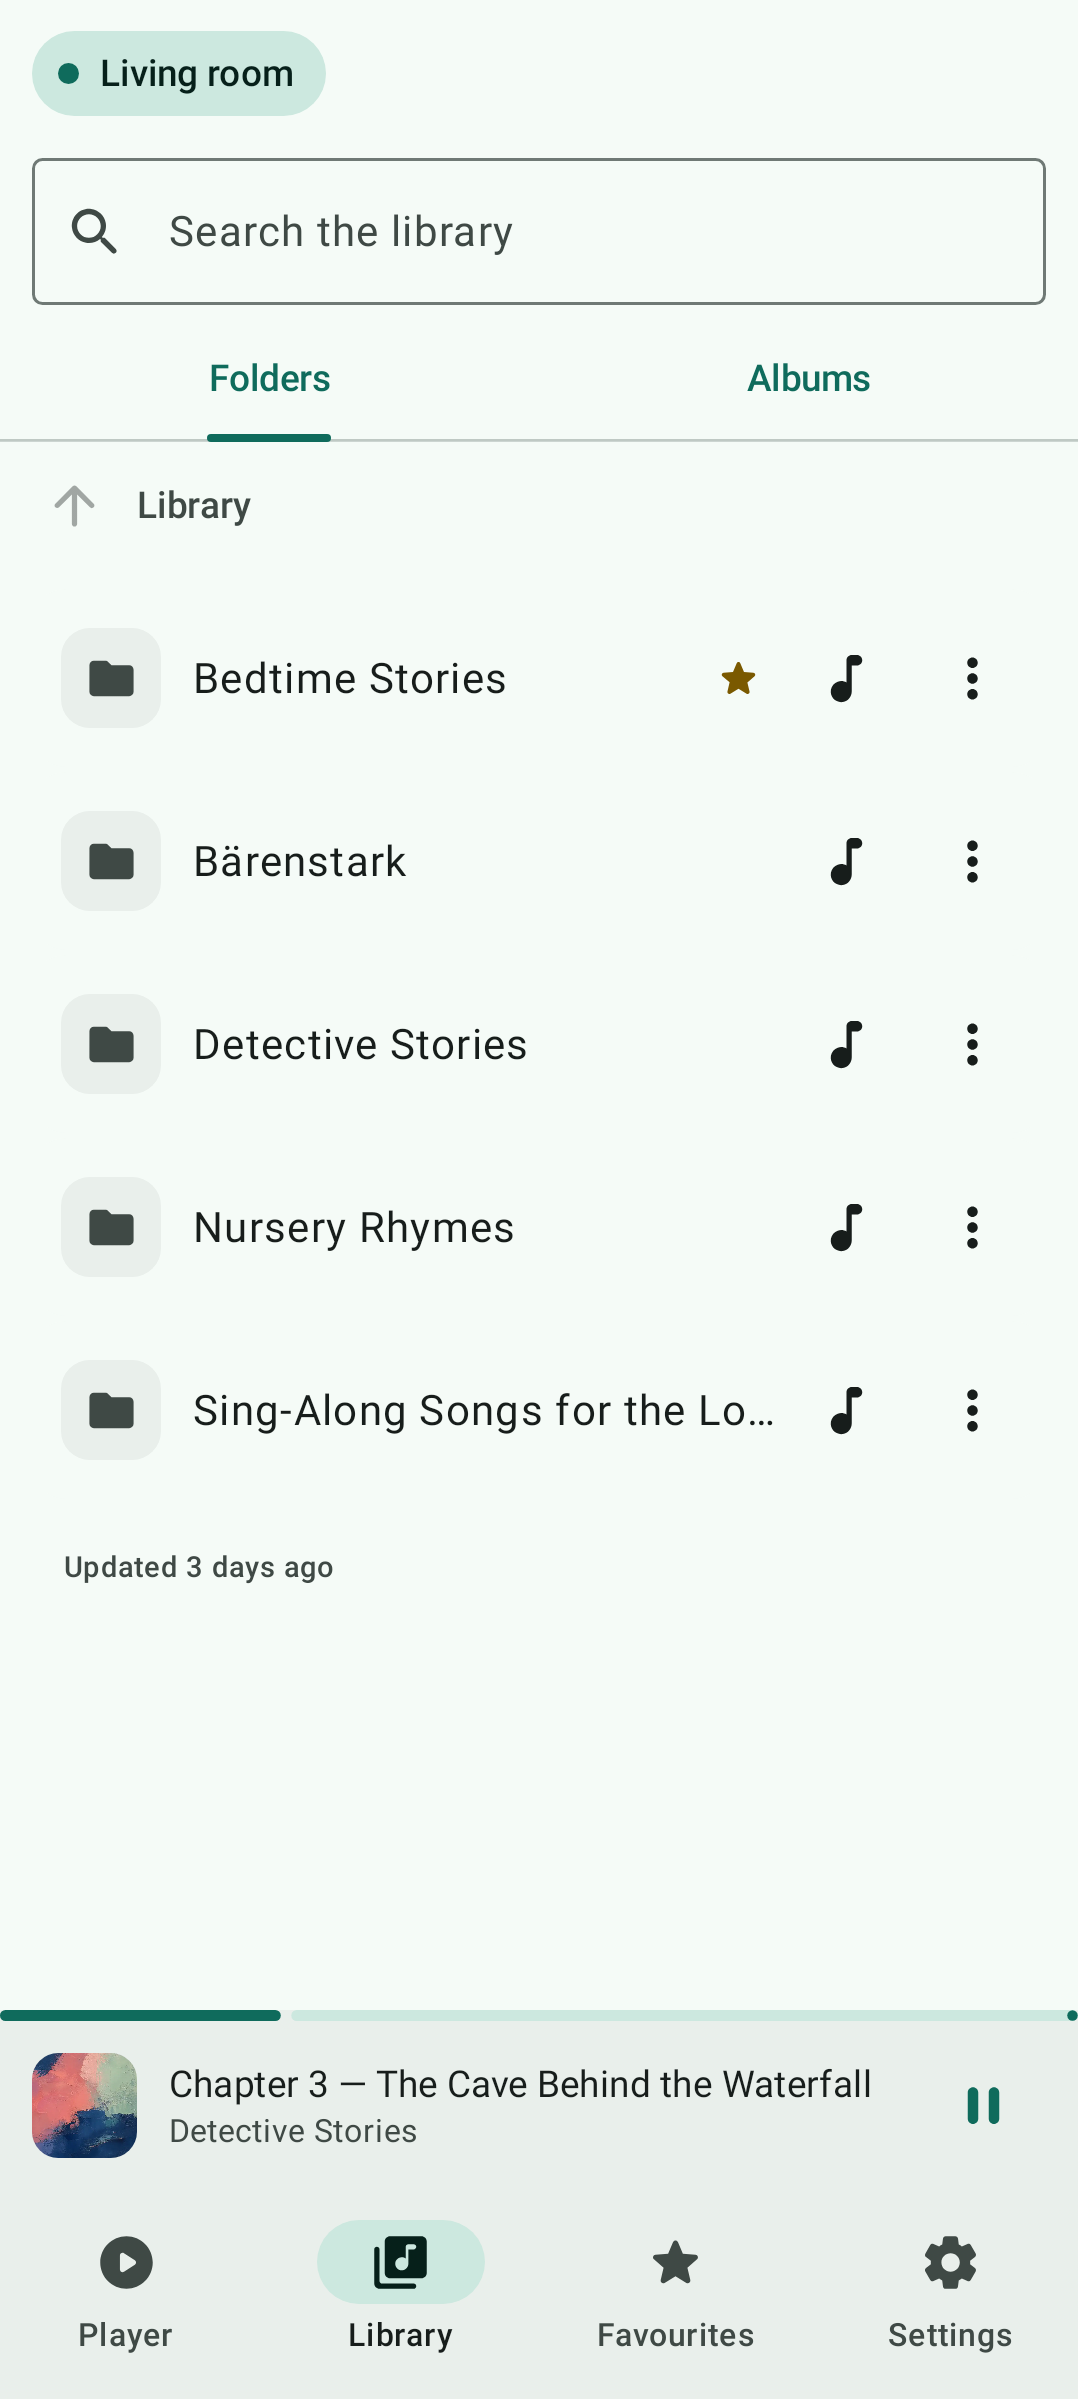
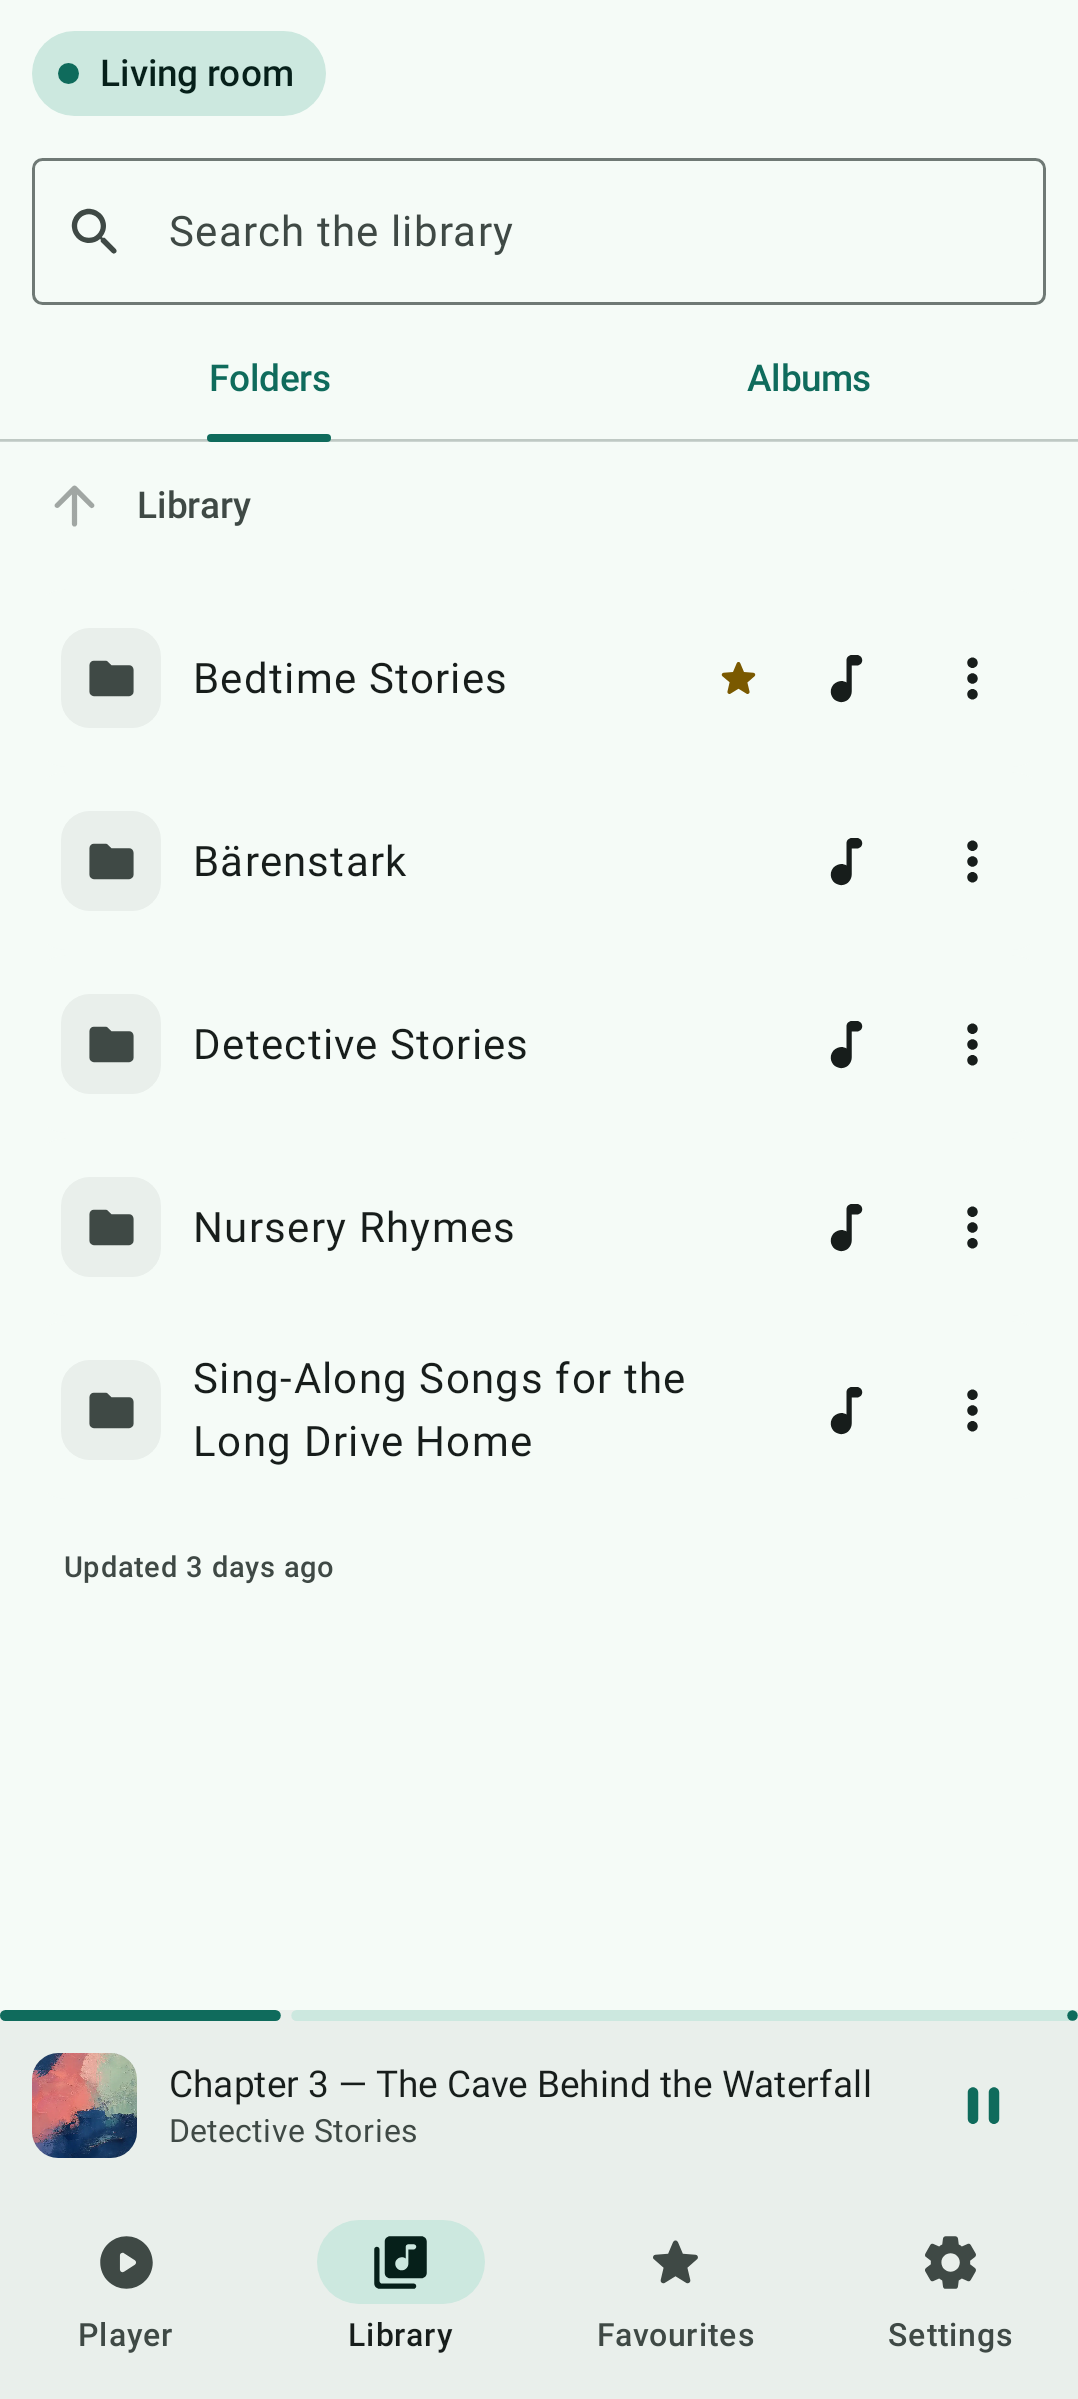
fix(ui): wrap long names in list rows instead of cutting them off
Library folder, track and album rows and the favourites list row
ellipsised at one line, which on a Phoniebox library cuts off exactly
the part that tells siblings apart (Folge 12 vs Folge 13). Allow a
second line. Not a marquee as in the player: a screenful of rows
scrolling at once is noise.

Changed region(s): [[0.1837, 0.5552, 0.551, 0.6169], [0.5816, 0.5552, 0.6429, 0.6169]]

diff --git a/app/src/main/kotlin/app/coilforphoniebox/ui/library/LibraryScreen.kt b/app/src/main/kotlin/app/coilforphoniebox/ui/library/LibraryScreen.kt
@@ -96,6 +96,13 @@ import kotlinx.coroutines.flow.emptyFlow
 private const val TAB_FOLDERS = 0
 private const val TAB_ALBUMS = 1
 
+/**
+ * A row's title wraps once before it ellipsises. Library names are long and differ at the end
+ * — `Folge 12` from `Folge 13`, part one from part two — and one line cut exactly that off.
+ * Two lines, not a marquee as in the player: a screenful of rows scrolling at once is noise.
+ */
+private const val ROW_TITLE_LINES = 2
+
 /** Room for both tab labels in the longest launch locale, beside the search field. */
 private val COMPACT_TABS_WIDTH = 280.dp
 
@@ -518,7 +525,7 @@ private fun FolderRow(
             Text(
                 text = folder.displayName,
                 style = MaterialTheme.typography.bodyLarge,
-                maxLines = 1,
+                maxLines = ROW_TITLE_LINES,
                 overflow = TextOverflow.Ellipsis,
                 modifier = Modifier.weight(1f),
             )
@@ -585,7 +592,7 @@ private fun TrackRow(
             Text(
                 text = track.displayTitle,
                 style = MaterialTheme.typography.bodyLarge,
-                maxLines = 1,
+                maxLines = ROW_TITLE_LINES,
                 overflow = TextOverflow.Ellipsis,
                 modifier = Modifier.weight(1f),
             )
@@ -666,7 +673,7 @@ private fun AlbumRow(
                 Text(
                     text = album.album.ifBlank { stringResource(R.string.library_unknown_album) },
                     style = MaterialTheme.typography.bodyLarge,
-                    maxLines = 1,
+                    maxLines = ROW_TITLE_LINES,
                     overflow = TextOverflow.Ellipsis,
                 )
                 Row(verticalAlignment = Alignment.CenterVertically) {

diff --git a/app/src/main/kotlin/app/coilforphoniebox/ui/favorites/FavoritesScreen.kt b/app/src/main/kotlin/app/coilforphoniebox/ui/favorites/FavoritesScreen.kt
@@ -227,7 +227,9 @@ private fun FavoriteCell(
 
 /**
  * The compact row, for a collection that has outgrown a screenful of tiles: the same cover
- * at thumbnail size, and the label on one line so four times as many fit.
+ * at thumbnail size, and the label beside it so four times as many fit. The label wraps once
+ * rather than cutting off at one line, since a long name usually differs from its neighbours
+ * at the end; a two-line label still fits inside the thumbnail's height.
  */
 @Composable
 private fun FavoriteRow(
@@ -258,7 +260,7 @@ private fun FavoriteRow(
         Text(
             text = favorite.label,
             style = MaterialTheme.typography.bodyLarge,
-            maxLines = 1,
+            maxLines = 2,
             overflow = TextOverflow.Ellipsis,
             modifier = Modifier
                 .weight(1f)

diff --git a/CHANGELOG.md b/CHANGELOG.md
@@ -13,6 +13,9 @@ automatically from the `## [x.y.z]` heading matching `versionName` in `app/build
 - **No more bar across the top.** The box name and the favourites' sort and layout buttons are
   now the first row of each screen, and scroll out of the way with the list, so the content gets
   that space back. In landscape the row sits beside the navigation rail rather than above it.
+- **Long names in lists wrap instead of being cut off.** Folders, tracks and albums in the
+  library, and favourites in the list layout, now use a second line before shortening a name,
+  so the part that tells "Folge 12" from "Folge 13" stays visible.
 
 ### Fixed
 - **Landscape keeps clear of the camera.** With the phone on its side, the navigation rail and
